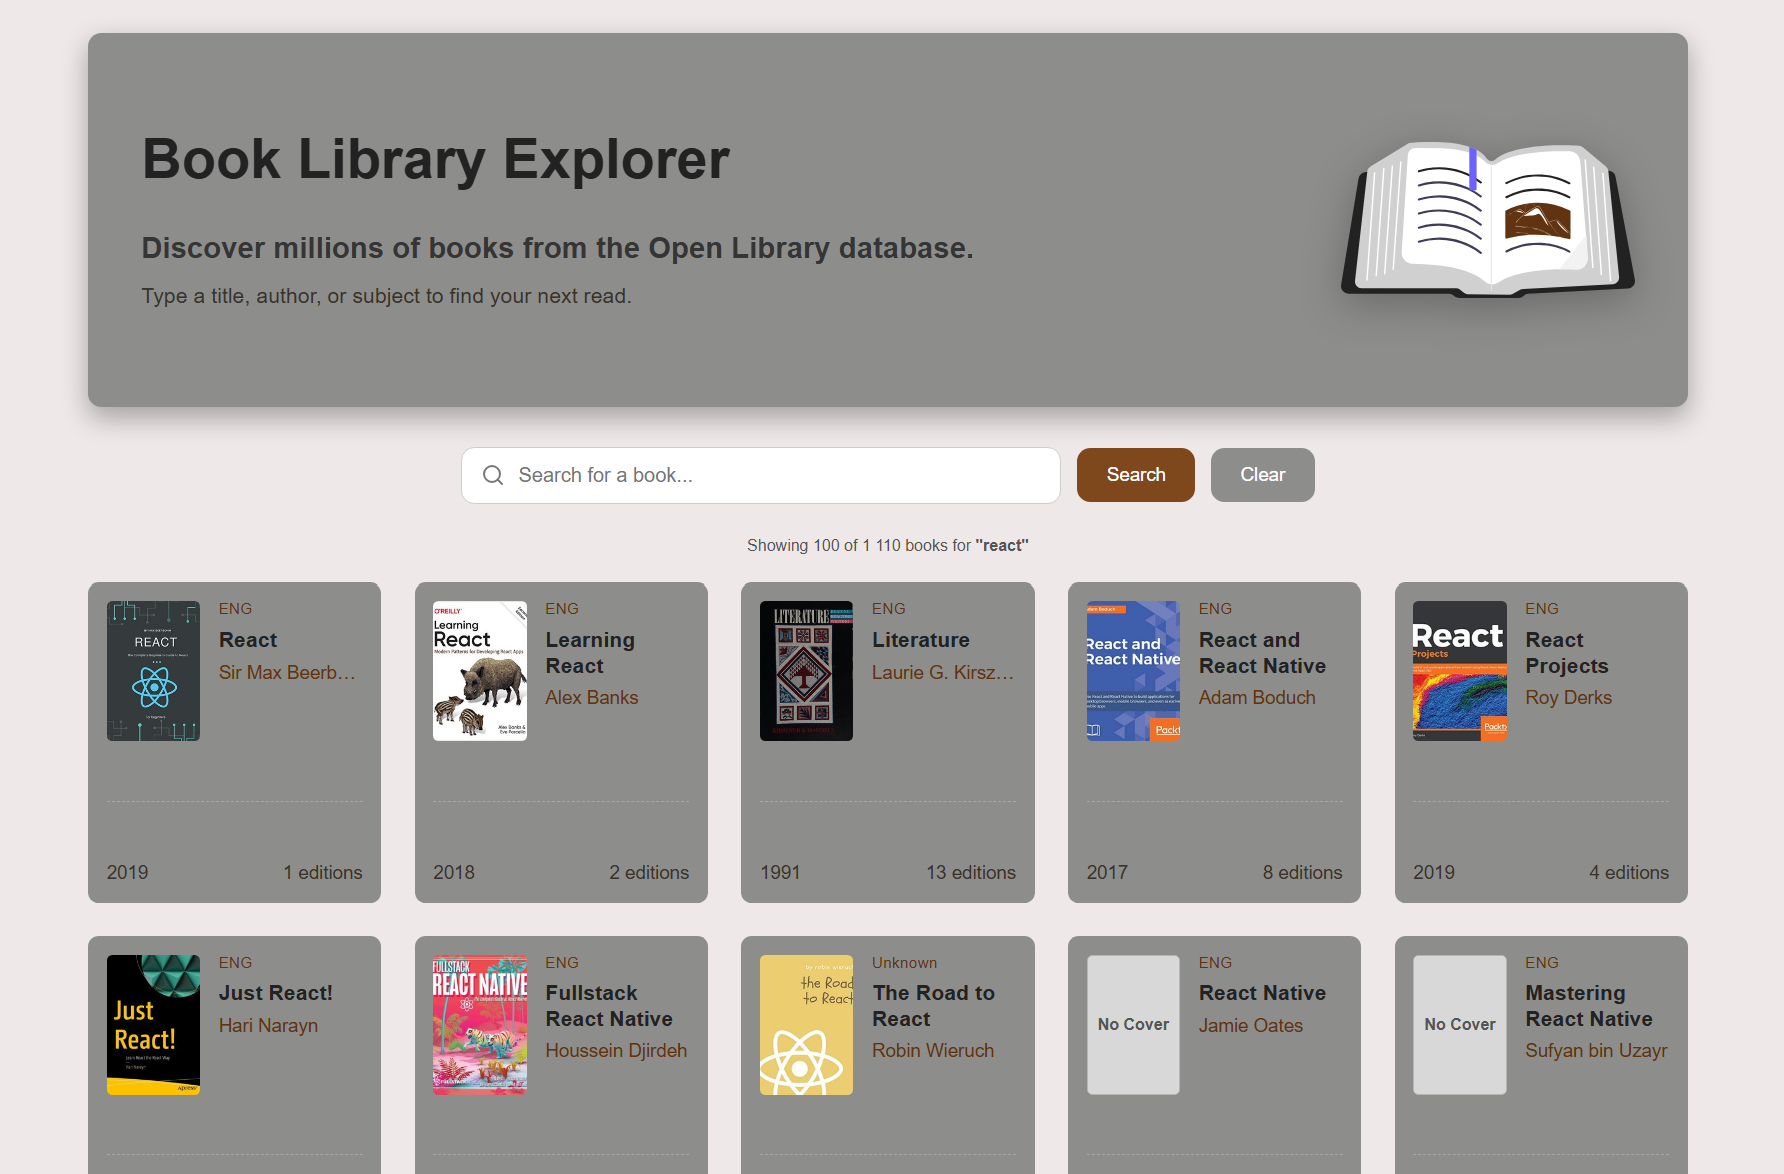
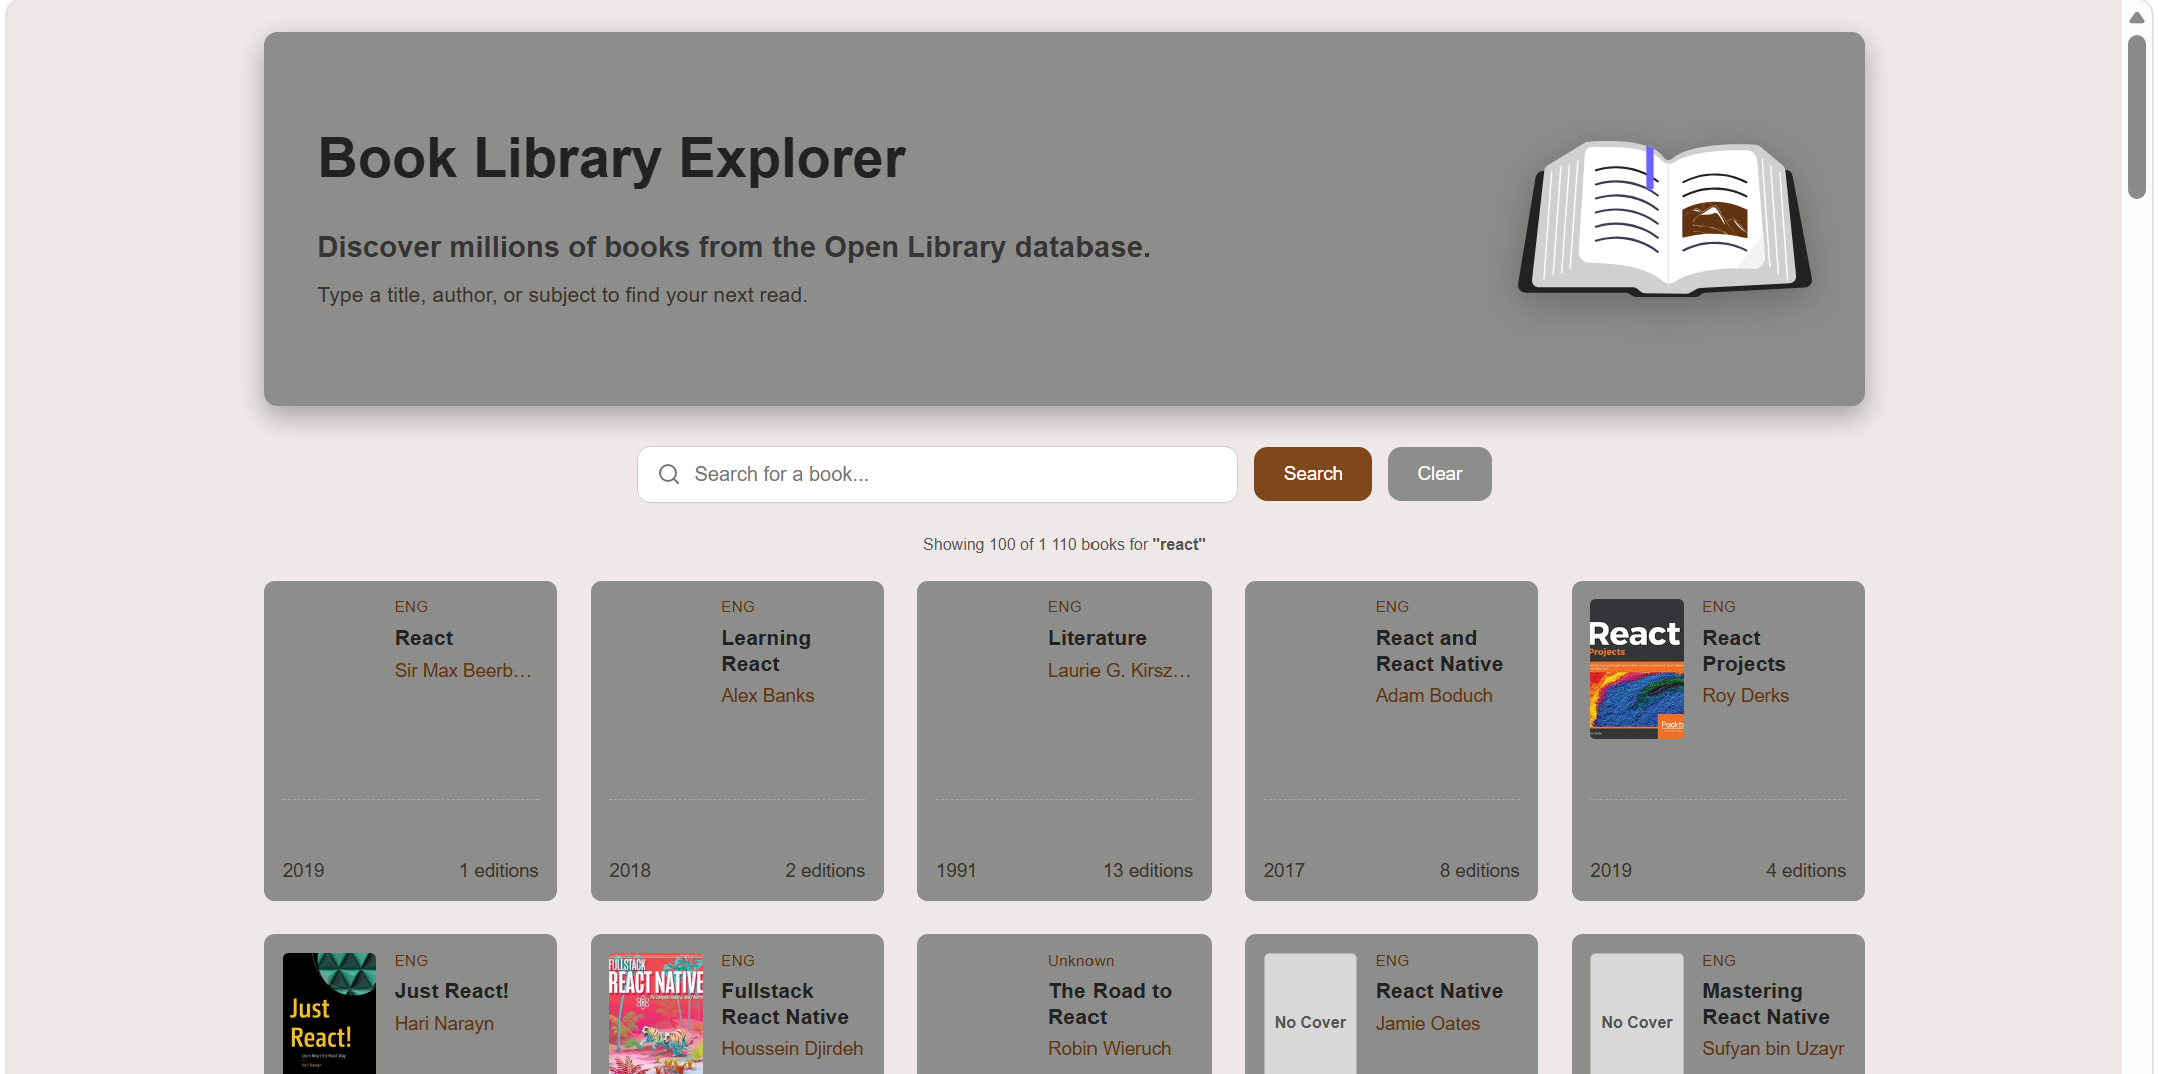
Projects Image Screenshots Update

diff --git a/projects.html b/projects.html
@@ -74,10 +74,10 @@
                       <span class="project-tag mb-1">Built with HTML, CSS, JavaScript &amp; Firebase</span>
                       <h3 class="card-title h5 fw-bold mb-1">Urban Threads</h3>
                       <p class="card-text small text-muted flex-grow-1">
-                        A full e-commerce app for a fictional streetwear brand — Firebase Authentication, a Firestore-backed product catalog and cart, category filtering, search, and pagination.
+                        A full e-commerce app for a fictional streetwear brand with Firebase Authentication, a Firestore-backed product catalog and cart, category filtering, search, and pagination.
                       </p>
                       <div class="d-flex gap-2 mt-3">
-                        <a href="https://kmukendi10.github.io/UrbanThreadsOnlineStore/" target="_blank" rel="noopener noreferrer"
+                        <a href="https://urban-threads-online-store-puce.vercel.app/" target="_blank" rel="noopener noreferrer"
                            class="btn btn-proj-primary btn-sm flex-grow-1">View Website</a>
                         <a href="https://github.com/KMukendi10/UrbanThreadsOnlineStore.git" target="_blank" rel="noopener noreferrer"
                            class="btn btn-icon-outline btn-sm" aria-label="Urban Threads source code">
@@ -99,7 +99,7 @@
                       <span class="project-tag mb-1">Built with React, JavaScript &amp; Vite</span>
                       <h3 class="card-title h5 fw-bold mb-1">Google Keep Clone (React)</h3>
                       <p class="card-text small text-muted flex-grow-1">
-                        A React rebuild of the original Google Keep clone — masonry note grid, label tags, dark mode, drag-and-drop reordering, and an archive/trash flow with auto-purge.
+                        A React rebuild of the original Google Keep clone with masonry note grid, label tags, dark mode, drag-and-drop reordering, and an archive/trash flow with auto-purge.
                       </p>
                       <div class="d-flex gap-2 mt-3">
                         <a href="https://google-keep-clone-react-gamma.vercel.app/" target="_blank" rel="noopener noreferrer"
@@ -124,7 +124,7 @@
                       <span class="project-tag mb-1">Built with React, Vite &amp; the Open Library API</span>
                       <h3 class="card-title h5 fw-bold mb-1">Book Library</h3>
                       <p class="card-text small text-muted flex-grow-1">
-                        A book search app built on the Open Library API — search, browse covers and details, with proper loading and error states instead of assuming every request succeeds.
+                        A book search app built on the Open Library API search, browse covers and details, with proper loading and error states instead of assuming every request succeeds.
                       </p>
                       <div class="d-flex gap-2 mt-3">
                         <a href="https://kmukendi10.github.io/API-Intergratio-Book-Library/" target="_blank" rel="noopener noreferrer"
@@ -174,13 +174,38 @@
                       <span class="project-tag mb-1">Built with HTML, CSS  &amp; JavaScript</span>
                       <h3 class="card-title h5 fw-bold mb-1">Twitter/X</h3>
                       <p class="card-text small text-muted flex-grow-1">
-                        A Twitter/X clone built with HTML, CSS, and JavaScript — my most functionally complete project so far, with real interactivity and state handling in the browser rather than a static layout clone.
+                        A Twitter/X clone built with HTML, CSS, and JavaScript including functional features with real interactivity and state handling in the browser rather than a static layout clone.
                       </p>
                       <div class="d-flex gap-2 mt-3">
-                        <a href="https://kmukendi10.github.io/TwitterLandingPage/" target="_blank" rel="noopener noreferrer"
+                        <a href="https://twitter-landing-page-three.vercel.app/" target="_blank" rel="noopener noreferrer"
                            class="btn btn-proj-primary btn-sm flex-grow-1">View Website</a>
                         <a href="https://github.com/KMukendi10/TwitterLandingPage.git" target="_blank" rel="noopener noreferrer"
                            class="btn btn-icon-outline btn-sm" aria-label="Twitter/X clone source code">
+                          <i class="bi bi-code-slash"></i>
+                        </a>
+                      </div>
+                    </div>
+                  </article>
+                </div>
+
+                <!-- YouTube -->
+                <div class="col">
+                  <article class="project-card card border-0 shadow h-100 rounded-4 overflow-hidden">
+                    <div class="card-img-wrap">
+                      <img src="./Assets/YouTube.png"
+                           class="card-img-top" alt="YouTube clone project screenshot" />
+                    </div>
+                    <div class="card-body d-flex flex-column p-4">
+                      <span class="project-tag mb-1">Built with HTML, CSS  &amp; JavaScript</span>
+                      <h3 class="card-title h5 fw-bold mb-1">YouTube</h3>
+                      <p class="card-text small text-muted flex-grow-1">
+                        A recreation of YouTube Landing Page including grid with sidebar, search bar, and a responsive video thumbnail layout.
+                      </p>
+                      <div class="d-flex gap-2 mt-3">
+                        <a href="https://youtube-clone.vercel.app/" target="_blank" rel="noopener noreferrer"
+                           class="btn btn-proj-primary btn-sm flex-grow-1">View Website</a>
+                        <a href="https://github.com/KMukendi10/YouTubeClone.git" target="_blank" rel="noopener noreferrer"
+                           class="btn btn-icon-outline btn-sm" aria-label="YouTube clone source code">
                           <i class="bi bi-code-slash"></i>
                         </a>
                       </div>
@@ -217,7 +242,7 @@
                     <article class="project-card card border-0 shadow h-100 rounded-4 overflow-hidden">
                         <div class="card-img-wrap">
                           <img src="./Assets/iHubWebsite.png"
-                               class="card-img-top" alt="iHub Africa website prototype screenshot" />
+                               class="card-img-top-team" alt="iHub Africa website prototype screenshot" />
                         </div>
                         <div class="card-body d-flex flex-column p-4">
                           <span class="project-tag mb-1">Built with HTML, CSS  &amp; JavaScript</span>

diff --git a/index.html b/index.html
@@ -124,7 +124,7 @@
                 <img src="./Assets/UrbanThreads.png" alt="Urban Threads Project Screenshot">
                 <div class="spotlight-text">
                     <h3>Urban Threads<span class="badge">Featured</span></h3>
-                    <p>A Twitter/X clone built with HTML, CSS, and JavaScript — my most functionally complete project so far, with real interactivity and state handling in the browser rather than a static layout clone.</p>
+                    <p>A full e-commerce app for a fictional streetwear brand — Firebase Authentication, a Firestore-backed product catalog and cart, category filtering, search, and pagination.</p>
                     <div class="tags">
                         <span>HTML</span>
                         <span>CSS</span>

diff --git a/styles.css b/styles.css
@@ -777,6 +777,7 @@ header {
 .project-card {
     background: var(--card-bg) !important;
     color: var(--text);
+    box-shadow: 0 4px 12px var(--shadow) !important;
     border-radius: 16px !important;
     transition: transform 0.3s ease, box-shadow 0.3s ease;
 }
